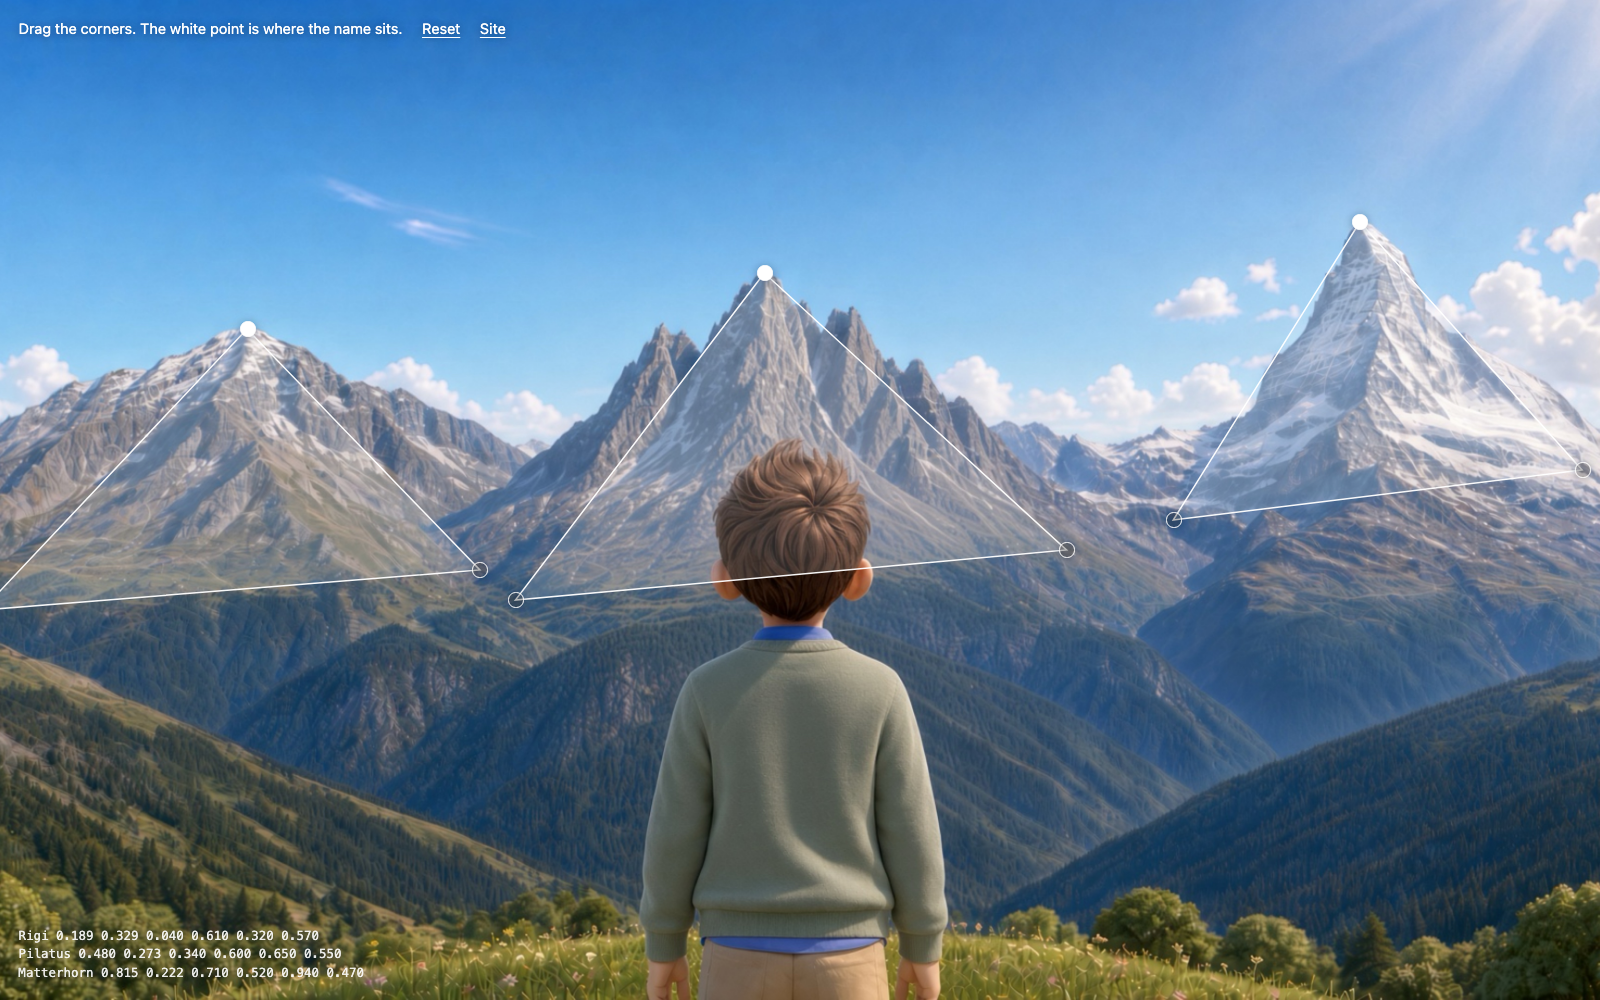
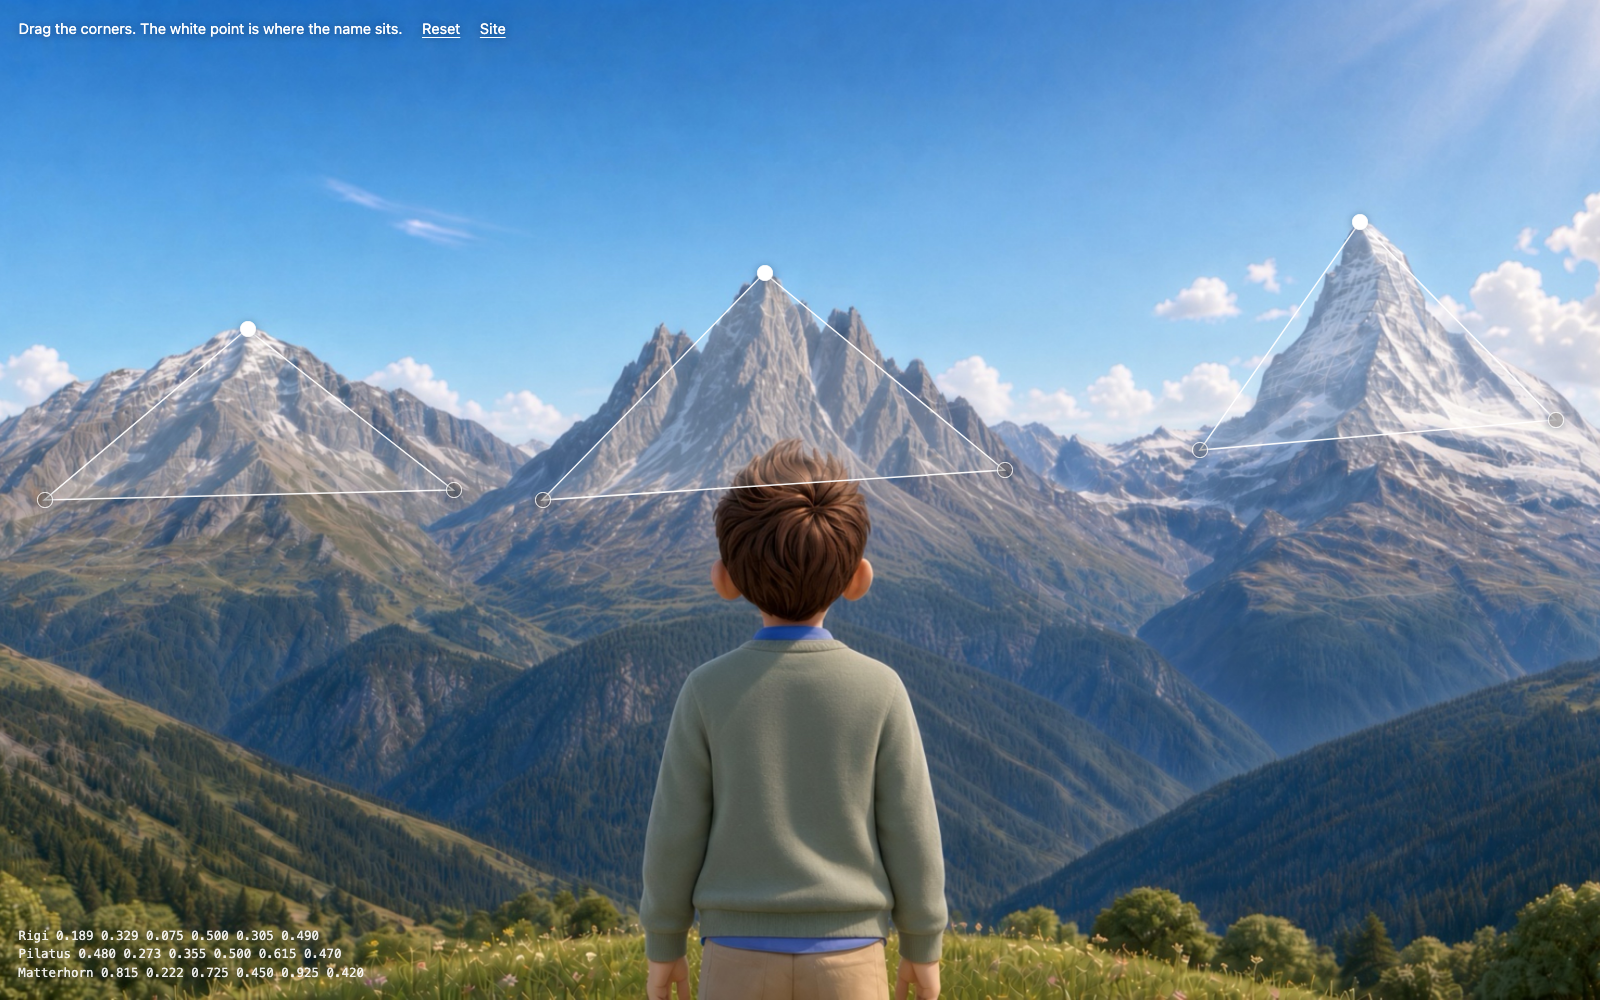
Publish the latest site edits.

diff --git a/loading/index.html b/loading/index.html
@@ -10,7 +10,7 @@
     <link rel="preload" as="image" href="../trial-first.jpg" media="(min-aspect-ratio: 4/5)" />
     <script>
       (function () {
-        var names = { focus: 1, sky: 1, ruler: 1, altitude: 1, peaks: 1 };
+        var names = { focus: 1, sky: 1, ruler: 1, altitude: 1, peaks: 1, sketch: 1, scale: 1 };
         var v = new URLSearchParams(location.search).get("v");
         document.documentElement.dataset.screen = names[v] ? v : "focus";
       })();
@@ -120,7 +120,9 @@
         transform: translateY(calc(50dvh - 14vh - 2.2rem));
       }
 
-      html[data-screen="altitude"]:not(.is-open) .home-lock {
+      html[data-screen="altitude"]:not(.is-open) .home-lock,
+      html[data-screen="sketch"]:not(.is-open) .home-lock,
+      html[data-screen="scale"]:not(.is-open) .home-lock {
         opacity: 0;
       }
 
@@ -182,7 +184,9 @@
 
       .instrument-ruler,
       .instrument-altitude,
-      .instrument-peaks {
+      .instrument-peaks,
+      .instrument-sketch,
+      .instrument-scale {
         display: none;
       }
 
@@ -196,6 +200,11 @@
 
       html[data-screen="peaks"] .instrument-peaks {
         display: block;
+      }
+
+      html[data-screen="sketch"] .instrument-sketch,
+      html[data-screen="scale"] .instrument-scale {
+        display: flex;
       }
 
       .instrument-ruler {
@@ -355,6 +364,133 @@
         color: rgba(255, 255, 255, 0.82);
       }
 
+      .instrument-sketch,
+      .instrument-scale {
+        position: absolute;
+        inset: 0;
+        flex-direction: column;
+        align-items: center;
+        color: #fff;
+      }
+
+      .instrument-sketch {
+        justify-content: center;
+        padding: 8vh 1.25rem 6vh;
+      }
+
+      .instrument-scale {
+        justify-content: space-between;
+        padding: 9vh 0.75rem 2.5vh;
+      }
+
+      .scale-name,
+      .scale-figure,
+      .scale-value,
+      .scale-unit {
+        font-family: system-ui, sans-serif;
+      }
+
+      .scale-name {
+        margin: 0;
+        min-height: 1.2em;
+        font-weight: 500;
+        font-size: 1.05rem;
+        line-height: 1.2;
+        text-align: center;
+      }
+
+      .scale-figure {
+        display: flex;
+        align-items: baseline;
+        justify-content: center;
+        margin: 0.25rem 0 0;
+      }
+
+      .scale-value {
+        display: block;
+        width: 5.2ch;
+        text-align: right;
+        font-variant-numeric: tabular-nums;
+        font-weight: 500;
+        font-size: clamp(2.8rem, 11vw, 5rem);
+        line-height: 0.9;
+        letter-spacing: -0.05em;
+      }
+
+      .scale-unit {
+        margin-left: 0.28rem;
+        font-weight: 500;
+        font-size: clamp(1.2rem, 3.4vw, 1.8rem);
+        line-height: 1;
+      }
+
+      .range-svg {
+        display: block;
+        width: auto;
+        height: min(58%, 36rem);
+        max-width: 100%;
+        overflow: visible;
+      }
+
+      .sketch-svg {
+        height: min(64%, 38rem);
+      }
+
+      .sketch-fill {
+        fill: #fff;
+        stroke: none;
+        opacity: clamp(0, calc((var(--p) - 0.78) / 0.22), 1);
+      }
+
+      .draw {
+        fill: none;
+        stroke: #fff;
+        stroke-width: 1.7;
+        stroke-linejoin: round;
+        stroke-linecap: round;
+        stroke-dasharray: 0 1;
+        vector-effect: non-scaling-stroke;
+      }
+
+      .ruler-track {
+        stroke: rgba(255, 255, 255, 0.38);
+        stroke-width: 1.5;
+      }
+
+      .ruler-fill,
+      .vmark line {
+        stroke: #fff;
+        stroke-width: 1.75;
+      }
+
+      .tick {
+        stroke: rgba(255, 255, 255, 0.7);
+        stroke-width: 1.25;
+      }
+
+      .ground {
+        stroke: rgba(255, 255, 255, 0.45);
+        stroke-width: 1.25;
+      }
+
+      .mtn {
+        fill: #fff;
+        stroke: #3f6fc4;
+        stroke-width: 2;
+        stroke-linejoin: round;
+      }
+
+      .range-svg text {
+        fill: #fff;
+        font-family: system-ui, sans-serif;
+        font-size: 15px;
+        font-weight: 500;
+      }
+
+      .mint {
+        opacity: clamp(0, calc((var(--p) - var(--at)) * 7), 1);
+      }
+
       .dock {
         flex: none;
         padding: 0.75rem 1rem calc(0.8rem + env(safe-area-inset-bottom));
@@ -403,8 +539,8 @@
       }
 
       .pick {
-        width: 2rem;
-        height: 2rem;
+        width: 1.85rem;
+        height: 1.85rem;
         border-radius: 50%;
         color: rgba(255, 255, 255, 0.72);
         font-family: system-ui, sans-serif;
@@ -527,6 +663,53 @@
             <span class="summit-line"></span>
           </div>
         </div>
+        <div class="instrument instrument-sketch" aria-hidden="true">
+          <svg class="range-svg sketch-svg" viewBox="96 20 324 520">
+            <path class="sketch-fill" d="M140 500 C158 456 176 382 196 318.5 C216 386 238 456 264 500 Z" />
+            <path class="sketch-fill" d="M224 500 L242 440 L256 400 L270 428 L290 285.2 L306 348 L322 312 L342 410 L366 500 Z" />
+            <path class="sketch-fill" d="M300 500 L328 320 L342 175 L356 48 L372 180 L390 330 L408 500 Z" />
+            <path class="draw" data-start="0" data-span="0.22" d="M140 500 L408 500" />
+            <path class="draw" data-start="0.04" data-span="0.32" d="M140 500 C158 456 176 382 196 318.5 C216 386 238 456 264 500" />
+            <path class="draw" data-start="0.24" data-span="0.34" d="M224 500 L242 440 L256 400 L270 428 L290 285.2 L306 348 L322 312 L342 410 L366 500" />
+            <path class="draw" data-start="0.5" data-span="0.5" d="M300 500 L328 320 L342 175 L356 48 L372 180 L390 330 L408 500" />
+          </svg>
+        </div>
+        <div class="instrument instrument-scale" aria-hidden="true">
+          <div class="scale-read">
+            <p class="scale-name">Rigi</p>
+            <p class="scale-figure"><span class="scale-value">0</span><span class="scale-unit">m</span></p>
+          </div>
+          <svg class="range-svg" viewBox="0 0 420 540">
+            <line class="ruler-track" x1="108" y1="48" x2="108" y2="500" />
+            <line class="ruler-fill" x1="108" y1="500" x2="108" y2="500" />
+            <line class="tick" x1="104" y1="449.5" x2="112" y2="449.5" />
+            <line class="tick" x1="104" y1="399.1" x2="112" y2="399.1" />
+            <line class="tick" x1="104" y1="348.6" x2="112" y2="348.6" />
+            <line class="tick" x1="104" y1="298.1" x2="112" y2="298.1" />
+            <line class="tick" x1="104" y1="247.7" x2="112" y2="247.7" />
+            <line class="tick" x1="104" y1="197.2" x2="112" y2="197.2" />
+            <line class="tick" x1="104" y1="146.7" x2="112" y2="146.7" />
+            <line class="tick" x1="104" y1="96.3" x2="112" y2="96.3" />
+            <line class="tick" x1="100" y1="318.5" x2="120" y2="318.5" />
+            <line class="tick" x1="100" y1="285.2" x2="120" y2="285.2" />
+            <line class="tick" x1="98" y1="48" x2="122" y2="48" />
+            <line class="ground" x1="130" y1="500" x2="412" y2="500" />
+            <g class="vmark">
+              <line x1="94" y1="48" x2="126" y2="48" />
+            </g>
+            <clipPath id="rise">
+              <rect class="rise-rect" x="0" y="500" width="420" height="0" />
+            </clipPath>
+            <g clip-path="url(#rise)">
+              <path class="mtn" d="M140 500 C158 456 176 382 196 318.5 C216 386 238 456 264 500 Z" />
+              <path class="mtn" d="M224 500 L242 440 L256 400 L270 428 L290 285.2 L306 348 L322 312 L342 410 L366 500 Z" />
+              <path class="mtn" d="M300 500 L328 320 L342 175 L356 48 L372 180 L390 330 L408 500 Z" />
+            </g>
+            <text class="mint" style="--at: 0.4" x="196" y="306" text-anchor="middle">Rigi</text>
+            <text class="mint" style="--at: 0.48" x="290" y="272" text-anchor="middle">Pilatus</text>
+            <text class="mint" style="--at: 0.9" x="188" y="72">Matterhorn</text>
+          </svg>
+        </div>
         <p class="sr" role="status"></p>
       </div>
       <nav class="dock" aria-label="Loading screens">
@@ -539,6 +722,8 @@
             <button type="button" class="pick" role="radio" data-v="ruler" aria-checked="false" aria-label="Ruler">3</button>
             <button type="button" class="pick" role="radio" data-v="altitude" aria-checked="false" aria-label="Altitude">4</button>
             <button type="button" class="pick" role="radio" data-v="peaks" aria-checked="false" aria-label="Peaks">5</button>
+            <button type="button" class="pick" role="radio" data-v="sketch" aria-checked="false" aria-label="Sketch">6</button>
+            <button type="button" class="pick" role="radio" data-v="scale" aria-checked="false" aria-label="Scale">7</button>
           </div>
           <button type="button" class="replay">Replay</button>
         </div>
@@ -546,13 +731,15 @@
     </div>
     <script>
       const root = document.documentElement;
-      const screens = ["focus", "sky", "ruler", "altitude", "peaks"];
+      const screens = ["focus", "sky", "ruler", "altitude", "peaks", "sketch", "scale"];
       const copy = {
         focus: ["Focus", "The first frame sharpens while the animation loads"],
         sky: ["Sky", "A title card on the sky, then the picture"],
         ruler: ["Ruler", "The measure fills, then the scene appears"],
         altitude: ["Altitude", "A climb through Rigi, Pilatus, and the Matterhorn"],
         peaks: ["Peaks", "The three summit labels draw themselves in"],
+        sketch: ["Sketch", "A line draws the three peaks, then fills them in"],
+        scale: ["Scale", "A vertical ruler, with each peak at its true height"],
       };
       const peaks = [
         { name: "Rigi", meters: 1798 },
@@ -567,6 +754,16 @@
       const summits = [...document.querySelectorAll(".summit")];
       const altName = document.querySelector(".alt-name");
       const altValue = document.querySelector(".alt-value");
+      const scaleName = document.querySelector(".scale-name");
+      const scaleValue = document.querySelector(".scale-value");
+      const scaleFill = document.querySelector(".ruler-fill");
+      const scaleMark = document.querySelector(".vmark");
+      const riseRect = document.querySelector(".rise-rect");
+      const drawPaths = [...document.querySelectorAll(".draw")];
+      const rulerTop = 48;
+      const rulerBottom = 500;
+      const rulerSpan = rulerBottom - rulerTop;
+      let drawReady = false;
       const dockName = document.querySelector(".dock-name");
       const dockBlurb = document.querySelector(".dock-blurb");
       const picks = [...document.querySelectorAll(".pick")];
@@ -598,12 +795,40 @@
         return { name: peaks[i].name, meters: from + (peaks[i].meters - from) * eased };
       };
 
+      const ensureDraws = () => {
+        if (drawReady) return;
+        drawPaths.forEach((path) => {
+          const len = path.getTotalLength();
+          if (!len) return;
+          path.dataset.len = String(len);
+          path.style.strokeDasharray = `${len}`;
+        });
+        drawReady = drawPaths.every((path) => Number(path.dataset.len) > 0);
+      };
+
       const setProgress = (amount) => {
         const p = Math.min(1, Math.max(0, amount));
         root.style.setProperty("--p", p.toFixed(4));
         const altitude = altitudeAt(p);
         altName.textContent = altitude.name;
         altValue.textContent = formatMeters(altitude.meters);
+        const metersNow = p >= 1 ? 4478 : p * 4478;
+        scaleValue.textContent = formatMeters(metersNow);
+        scaleName.textContent = metersNow >= 2128 ? "Matterhorn" : metersNow >= 1798 ? "Pilatus" : "Rigi";
+        const level = rulerBottom - p * rulerSpan;
+        scaleFill.setAttribute("y1", level.toFixed(2));
+        scaleMark.setAttribute("transform", `translate(0 ${(level - rulerTop).toFixed(2)})`);
+        riseRect.setAttribute("y", level.toFixed(2));
+        riseRect.setAttribute("height", (rulerBottom - level).toFixed(2));
+        if (root.dataset.screen === "sketch") ensureDraws();
+        drawPaths.forEach((path) => {
+          const len = Number(path.dataset.len);
+          if (!len) return;
+          const start = Number(path.dataset.start);
+          const span = Number(path.dataset.span);
+          const local = Math.min(1, Math.max(0, (p - start) / span));
+          path.style.strokeDashoffset = String(len * (1 - local));
+        });
         summits.forEach((node, index) => {
           const [start, end] = bands[index];
           const grow = Math.min(1, Math.max(0, (p - start) / (end - start)));

diff --git a/.preview/hit.html b/.preview/hit.html
@@ -1,0 +1,34 @@
+<!DOCTYPE html>
+<html>
+  <body>
+    <iframe id="f" src="/index.html" style="width:1600px;height:1000px;border:0"></iframe>
+    <pre id="out"></pre>
+    <script>
+      const frame = document.getElementById("f");
+      frame.addEventListener("load", async () => {
+        const doc = frame.contentDocument;
+        const win = frame.contentWindow;
+        const still = doc.querySelector(".end-still");
+        if (!still.complete) await new Promise((resolve) => still.addEventListener("load", resolve, { once: true }));
+        await new Promise((resolve) => setTimeout(resolve, 400));
+        doc.querySelector(".pin").classList.add("is-end", "is-away");
+        const samples = win.eval(`(() => {
+          const buttons = [...document.querySelectorAll(".summit")];
+          return buttons.map((button) => {
+            const box = button.getBoundingClientRect();
+            const mid = document.elementFromPoint(box.left + box.width / 2, box.top + box.height * 0.55);
+            const outside = document.elementFromPoint(box.left + 3, box.top + 3);
+            return {
+              label: button.getAttribute("aria-label"),
+              mid: mid ? mid.className || mid.tagName : null,
+              outside: outside ? outside.className || outside.tagName : null,
+              box: [Math.round(box.width), Math.round(box.height)],
+              clip: button.style.clipPath,
+            };
+          });
+        })()`);
+        document.getElementById("out").textContent = JSON.stringify(samples, null, 2);
+      });
+    </script>
+  </body>
+</html>

diff --git a/summit-shapes.js b/summit-shapes.js
@@ -2,9 +2,9 @@ window.galamiSummitTriangles = {
   key: "galami-summit-triangles",
   names: ["Rigi", "Pilatus", "Matterhorn"],
   defaults: [
-    [[0.189, 0.329], [0.04, 0.61], [0.32, 0.57]],
-    [[0.48, 0.273], [0.34, 0.6], [0.65, 0.55]],
-    [[0.815, 0.222], [0.71, 0.52], [0.94, 0.47]],
+    [[0.189, 0.329], [0.075, 0.5], [0.305, 0.49]],
+    [[0.48, 0.273], [0.355, 0.5], [0.615, 0.47]],
+    [[0.815, 0.222], [0.725, 0.45], [0.925, 0.42]],
   ],
   valid(points) {
     return Array.isArray(points)

diff --git a/buttons/index.html b/buttons/index.html
@@ -210,11 +210,18 @@
         height: 1.45rem;
       }
 
+      .ring,
+      .twin,
+      .stem,
+      .bare,
+      .wedge {
+        filter: drop-shadow(0 1px 3px rgba(8, 28, 64, 0.6));
+      }
+
       .wedge {
         width: 2.7rem;
         height: 2.15rem;
         color: #fff;
-        filter: drop-shadow(0 8px 16px rgba(8, 28, 64, 0.18));
       }
 
       .wedge svg {
